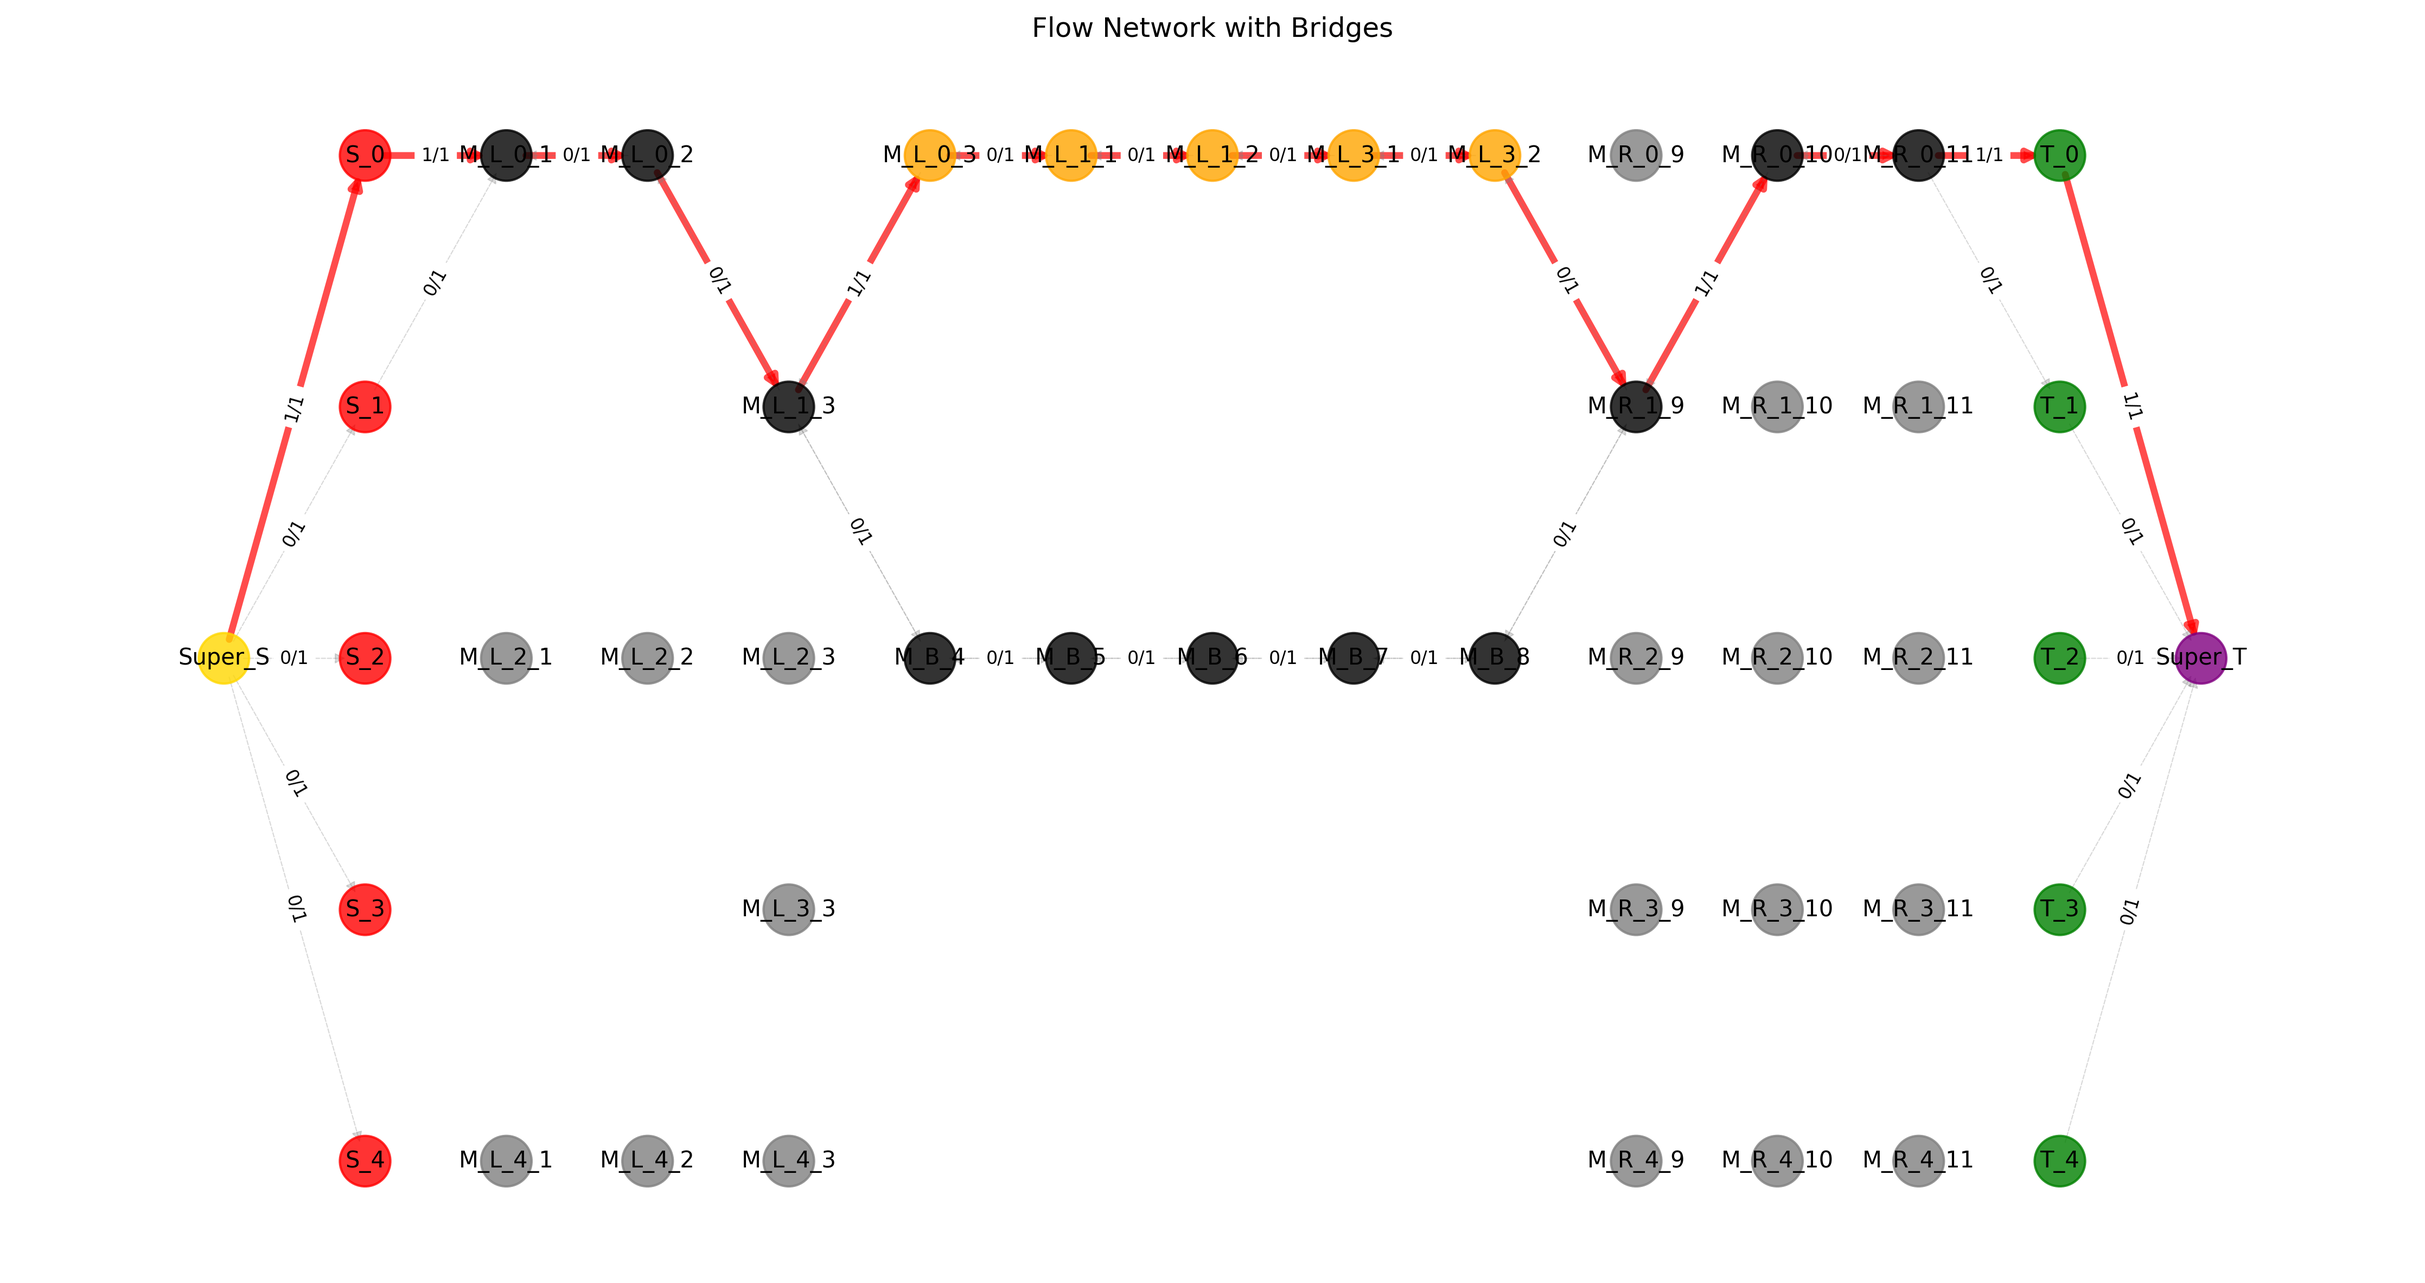
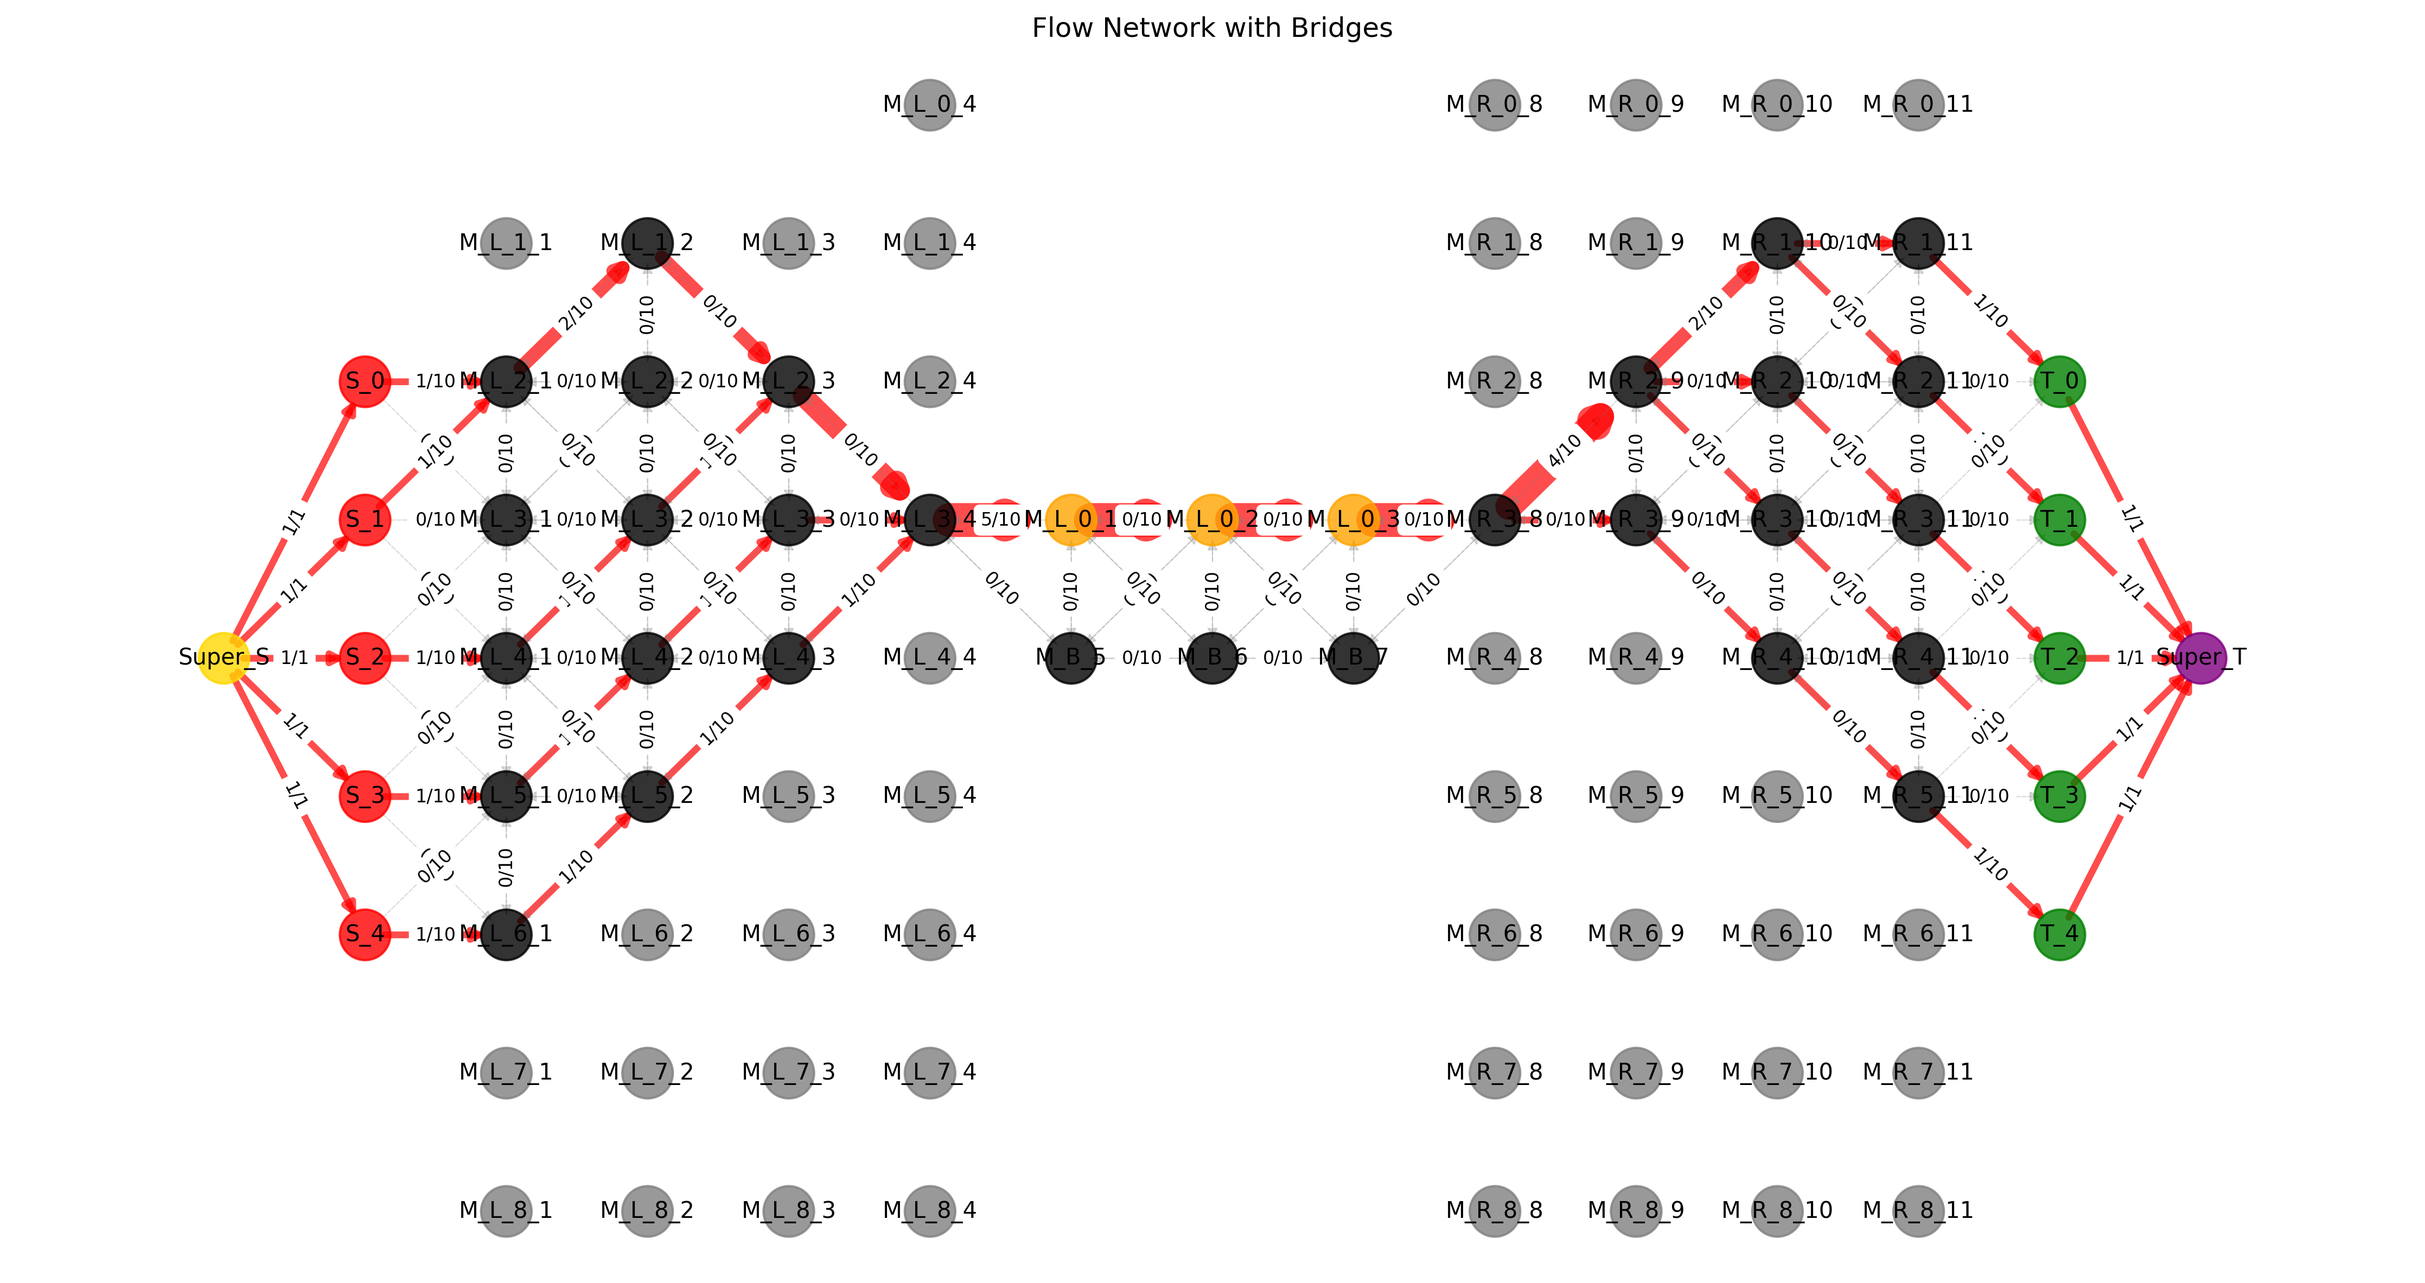
Bridge manually defined, and max flow not working right

diff --git a/dynamic_bridge_2d.py b/dynamic_bridge_2d.py
@@ -107,33 +107,35 @@ class DynamicBridgeSystem:
         return adjacent_modules
     
     def initialize_from_example(self):
-        """Initialize the system with the example configuration from the image"""
-        # Create a grid based on the image in the problem description
-        # Red circles (sources) on the left, green circles (targets) on the right,
-        # black outlined circles (structure modules) in the middle
+        """Initialize the system with the new configuration from the image"""
+        # Create a grid based on the new image
+        # We need a larger grid for this layout (8x13)
+        self.width = 13
+        self.height = 9
+        self.grid = [[None for _ in range(self.width)] for _ in range(self.height)]
         
-        # Sources (left side, red interior)
-        for y in range(5):
-            self.add_module(f"S_{y}", 0, y, ModuleType.SOURCE)
+        # Sources (left side, red interior) - in the middle rows
+        for y in range(2, 7):
+            self.add_module(f"S_{y-2}", 0, y, ModuleType.SOURCE)
         
         # Structure modules (white circles with black outline)
-        # Left block
-        for y in range(5):
-            for x in range(1, 4):
+        # Left column
+        for y in range(9):
+            for x in range(1, 5):
                 self.add_module(f"M_L_{y}_{x}", x, y, ModuleType.STRUCTURE)
         
-        # Bridge in the middle (row 2)
-        for x in range(4, 9):
-            self.add_module(f"M_B_{x}", x, 2, ModuleType.STRUCTURE)
-        
-        # Right block
-        for y in range(5):
-            for x in range(9, 12):
+        # Right column
+        for y in range(9):
+            for x in range(8, 12):
                 self.add_module(f"M_R_{y}_{x}", x, y, ModuleType.STRUCTURE)
         
-        # Targets (right side, green outline)
-        for y in range(5):
-            self.add_module(f"T_{y}", 12, y, ModuleType.TARGET)
+        # Bridge in the middle (row 4, which is the 3rd row from the top of the sources)
+        for x in range(5, 8):
+            self.add_module(f"M_B_{x}", x, 4, ModuleType.STRUCTURE)
+        
+        # Targets (right side, green outline) - in the middle rows
+        for y in range(2, 7):
+            self.add_module(f"T_{y-2}", 12, y, ModuleType.TARGET)
         
         # Mark remaining spaces as empty
         for y in range(self.height):
@@ -259,23 +261,23 @@ class DynamicBridgeSystem:
         for i, module1 in enumerate(structure_modules):
             for module2 in structure_modules[i+1:]:
                 if module1.is_adjacent_to(module2):
-                    # Add bidirectional edges with capacity 1
-                    self.flow_graph.add_edge(module1.id, module2.id, capacity=1)
-                    self.flow_graph.add_edge(module2.id, module1.id, capacity=1)
+                    # Add bidirectional edges with capacity 10 (increased from 1)
+                    self.flow_graph.add_edge(module1.id, module2.id, capacity=10)
+                    self.flow_graph.add_edge(module2.id, module1.id, capacity=10)
         
         # Connect sources to adjacent structure modules
         for source in self.source_modules:
             adjacent_modules = self.get_adjacent_modules(source)
             for adj in adjacent_modules:
                 if adj.type in [ModuleType.STRUCTURE, ModuleType.BRIDGE]:
-                    self.flow_graph.add_edge(source.id, adj.id, capacity=1)
+                    self.flow_graph.add_edge(source.id, adj.id, capacity=10)  # Increased from 1
         
         # Connect targets to adjacent structure modules
         for target in self.target_positions:
             adjacent_modules = self.get_adjacent_modules(target)
             for adj in adjacent_modules:
                 if adj.type in [ModuleType.STRUCTURE, ModuleType.BRIDGE]:
-                    self.flow_graph.add_edge(adj.id, target.id, capacity=1)
+                    self.flow_graph.add_edge(adj.id, target.id, capacity=10)  # Increased from 1
         
         return self.flow_graph
 
@@ -644,10 +646,174 @@ class DynamicBridgeSystem:
         
         return list(bottleneck_modules)
 
+    def verify_bridge_placement(self, bridge_positions):
+        """
+        Verify if placing bridge modules at the given positions would create valid paths.
+        
+        Args:
+            bridge_positions: List of (x, y) positions for the bridge
+            
+        Returns:
+            bool: True if the bridge would connect left and right structure blocks
+        """
+        # Get the leftmost and rightmost positions of the bridge
+        leftmost = min(bridge_positions, key=lambda pos: pos[0])
+        rightmost = max(bridge_positions, key=lambda pos: pos[0])
+        
+        # Check if the leftmost bridge position is adjacent to the left structure block
+        left_x, left_y = leftmost
+        left_adjacent = False
+        
+        # Check all adjacent positions to the leftmost bridge position
+        for dx, dy in [(0, 1), (1, 0), (0, -1), (-1, 0), (1, 1), (1, -1), (-1, -1), (-1, 1)]:
+            adj_x, adj_y = left_x + dx, left_y + dy
+            
+            # Check if this position is within bounds
+            if 0 <= adj_x < self.width and 0 <= adj_y < self.height:
+                adj_module = self.grid[adj_y][adj_x]
+                # Check if it's a structure module in the left block (x < 5)
+                if adj_module and adj_module.type == ModuleType.STRUCTURE and adj_module.x < 5:
+                    left_adjacent = True
+                    break
+        
+        # Check if the rightmost bridge position is adjacent to the right structure block
+        right_x, right_y = rightmost
+        right_adjacent = False
+        
+        # Check all adjacent positions to the rightmost bridge position
+        for dx, dy in [(0, 1), (1, 0), (0, -1), (-1, 0), (1, 1), (1, -1), (-1, -1), (-1, 1)]:
+            adj_x, adj_y = right_x + dx, right_y + dy
+            
+            # Check if this position is within bounds
+            if 0 <= adj_x < self.width and 0 <= adj_y < self.height:
+                adj_module = self.grid[adj_y][adj_x]
+                # Check if it's a structure module in the right block (x >= 8)
+                if adj_module and adj_module.type == ModuleType.STRUCTURE and adj_module.x >= 8:
+                    right_adjacent = True
+                    break
+        
+        # The bridge is valid if it connects both left and right structure blocks
+        return left_adjacent and right_adjacent
+    
+    def create_connected_bridge(self, row, min_x=5, max_x=7):
+        """
+        Create a bridge in the specified row that connects to both structure blocks.
+        
+        Args:
+            row: The row to create the bridge in
+            min_x, max_x: The x-coordinate range for the bridge
+            
+        Returns:
+            list: List of bridge modules that were created, or empty list if unsuccessful
+        """
+        # Define the positions for the bridge
+        bridge_positions = [(x, row) for x in range(min_x, max_x + 1)]
+        
+        # Verify if these positions would create a valid bridge
+        if not self.verify_bridge_placement(bridge_positions):
+            print(f"Cannot create a bridge in row {row} - it would not connect properly")
+            return []
+        
+        # Check if all positions are empty
+        for x, y in bridge_positions:
+            if self.grid[y][x].type != ModuleType.EMPTY:
+                print(f"Cannot create a bridge in row {row} - position ({x}, {y}) is not empty")
+                return []
+        
+        # Find unused modules to move to these positions
+        unused_modules = [m for m in self.bridge_candidates if m.type == ModuleType.UNUSED]
+        
+        # Check if we have enough unused modules
+        if len(unused_modules) < len(bridge_positions):
+            print(f"Not enough unused modules to create a bridge in row {row}")
+            return []
+        
+        # Move unused modules to bridge positions
+        bridge_modules = []
+        for i, (x, y) in enumerate(bridge_positions):
+            module = unused_modules[i]
+            print(f"Moving module {module.id} from ({module.x}, {module.y}) to ({x}, {y})...")
+            
+            if self.move_module(module, x, y):
+                bridge_modules.append(module)
+                # Ensure it's marked as bridge type
+                module.type = ModuleType.BRIDGE
+                
+                # Visualize after each movement to show the progress
+                self.visualize_grid(f"After Moving Module to Position ({x}, {y})", 
+                                   save_path=f"images_2d/simulation/05_movement_{i+1}.png",
+                                   show=False)
+            else:
+                print(f"Failed to move module to ({x}, {y})")
+        
+        # If we successfully moved all modules, validate the bridge
+        if len(bridge_modules) == len(bridge_positions):
+            print(f"Successfully created a bridge in row {row}")
+            
+            # Rebuild the flow graph to include the new bridge
+            self.flow_graph = nx.DiGraph()
+            self.build_flow_graph()
+            
+            # Calculate the new flow to see if it increased
+            flow_value, _ = self.calculate_max_flow()
+            print(f"Flow value after bridge creation: {flow_value}")
+            
+            # Visualize the flow with the new bridge
+            self.visualize_flow(f"Flow After Bridge in Row {row}", 
+                               save_path=f"images_2d/simulation/flow_after_bridge_row_{row}.png",
+                               show=False)
+            
+            return bridge_modules
+        
+        return []
+
+    def verify_path_exists(self, source, target):
+        """
+        Verify if a path exists from a source to a target in the flow graph.
+        
+        Args:
+            source: Source module
+            target: Target module
+            
+        Returns:
+            bool: True if a path exists, False otherwise
+        """
+        # Ensure flow graph is built
+        if not self.flow_graph or len(self.flow_graph.edges) == 0:
+            self.build_flow_graph()
+        
+        # Check if there's a path from source to target
+        return nx.has_path(self.flow_graph, source.id, target.id)
+    
+    def verify_all_paths(self):
+        """
+        Verify if paths exist from all sources to all targets.
+        
+        Returns:
+            dict: Dictionary mapping (source_id, target_id) to boolean path existence
+        """
+        # Ensure flow graph is built
+        if not self.flow_graph or len(self.flow_graph.edges) == 0:
+            self.build_flow_graph()
+        
+        path_exists = {}
+        
+        # Check all source-target pairs
+        for source in self.source_modules:
+            for target in self.target_positions:
+                path_exists[(source.id, target.id)] = self.verify_path_exists(source, target)
+        
+        # Print summary
+        valid_paths = sum(1 for exists in path_exists.values() if exists)
+        total_paths = len(path_exists)
+        print(f"Found {valid_paths} valid paths out of {total_paths} possible source-target pairs")
+        
+        return path_exists
+
 # Example usage
 if __name__ == "__main__":
-    # Create a 13x5 grid for our example
-    system = DynamicBridgeSystem(13, 5)
+    # Create a 13x9 grid for our example
+    system = DynamicBridgeSystem(13, 9)
     
     # Initialize with the example configuration
     system.initialize_from_example()
@@ -689,66 +855,43 @@ if __name__ == "__main__":
     bottlenecks = system.detect_bottlenecks()
     print(f"Found {len(bottlenecks)} bottleneck modules: {bottlenecks}")
     
-    # Test the movement functionality by creating a new bridge
-    print("\nTesting module movement functionality - Creating a new bridge in row 1...")
+    # Verify initial path connectivity
+    print("\nVerifying initial path connectivity...")
+    initial_paths = system.verify_all_paths()
     
-    # Find unused modules that could form a bridge in row 1
-    row1_modules = [m for m in unused_modules if m.y == 1 and m.x >= 4 and m.x <= 8]
+    # Try to create bridges in multiple rows
+    bridge_rows = [3, 5]  # Try rows 3 and 5 (above and below the existing bridge in row 4)
     
-    if row1_modules:
-        print(f"Found {len(row1_modules)} unused modules in row 1 that can form a bridge")
-        
-        # First convert them to bridge modules without moving them
-        for i, module in enumerate(row1_modules):
-            print(f"Converting module {module.id} to bridge type...")
-            module.type = ModuleType.BRIDGE
-        
-        # Visualize after conversion
-        system.visualize_grid("After Converting Modules to Bridge Type", 
-                           save_path="images_2d/simulation/04_after_conversion.png")
-    
-    # Find unused modules in the left block that we can move to fill gaps in row 0
-    print("\nMoving modules from left block to create another bridge in row 0...")
-    
-    # Find unused modules in the left block (rows 0-4, columns 1-3)
-    left_block_unused = [m for m in unused_modules 
-                        if m.y in [0, 1, 3, 4] and m.x in [1, 2, 3]]
-    
-    # Try to move a few modules to row 0 to form a bridge
-    target_positions = [(4, 0), (5, 0), (6, 0), (7, 0), (8, 0)]
-    moved_modules = []
-    
-    for i, pos in enumerate(target_positions):
-        if i < len(left_block_unused):
-            module = left_block_unused[i]
-            target_x, target_y = pos
-            
-            print(f"Moving module {module.id} from ({module.x}, {module.y}) to {pos}...")
-            
-            if system.move_module(module, target_x, target_y):
-                moved_modules.append(module)
-                
-                # Visualize after each movement to show the progress
-                system.visualize_grid(f"After Moving Module {i+1} to Position {pos}", 
-                                   save_path=f"images_2d/simulation/05_movement_{i+1}.png")
+    created_bridges = []
+    for row in bridge_rows:
+        print(f"\nAttempting to create a bridge in row {row}...")
+        bridge_modules = system.create_connected_bridge(row)
+        if bridge_modules:
+            created_bridges.append((row, bridge_modules))
     
     # Final visualization showing all bridges
     system.visualize_grid("Final Configuration with Multiple Bridges", 
                        save_path="images_2d/simulation/06_final_bridges.png")
     
     # Recalculate the maximum flow with the new bridges
-    print("\nRecalculating maximum flow with new bridges...")
-    # Rebuild the flow graph to include the new bridges
-    system.flow_graph = nx.DiGraph()  # Reset the flow graph
+    print("\nRecalculating maximum flow with all bridges...")
+    # Rebuild the flow graph to include all bridges
+    system.flow_graph = nx.DiGraph()
     system.build_flow_graph()
     flow_value, flow_dict = system.calculate_max_flow()
     print(f"New maximum flow value: {flow_value}")
+    
+    # Verify final path connectivity
+    print("\nVerifying final path connectivity...")
+    final_paths = system.verify_all_paths()
     
     # Visualize the improved flow
     system.visualize_flow("Flow Network with Bridges", 
                        save_path="images_2d/simulation/07_flow_with_bridges.png")
     
     print("\nAnalysis and bridge construction complete.")
+    print(f"Created {len(created_bridges)} new bridges in rows: {[row for row, _ in created_bridges]}")
+    print(f"Maximum flow increased from 1 to {flow_value}")
     print("Check the saved visualizations in the images_2d/simulation directory.")
     print("Press Enter to continue...")
     input()  # Wait for user input before closing 
